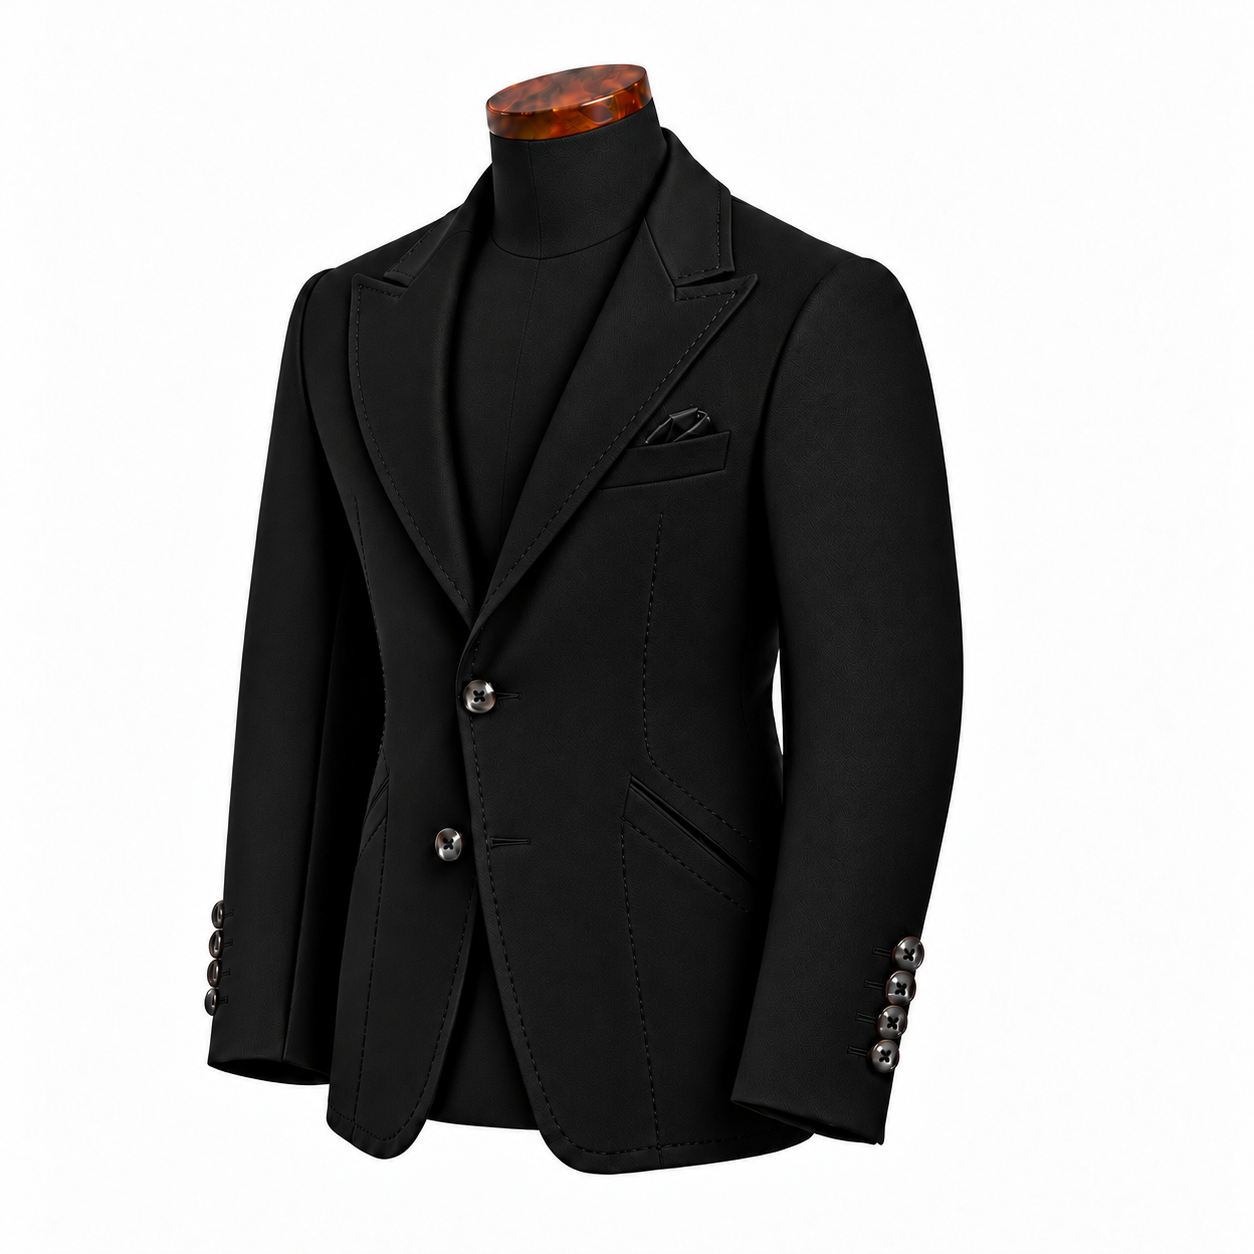
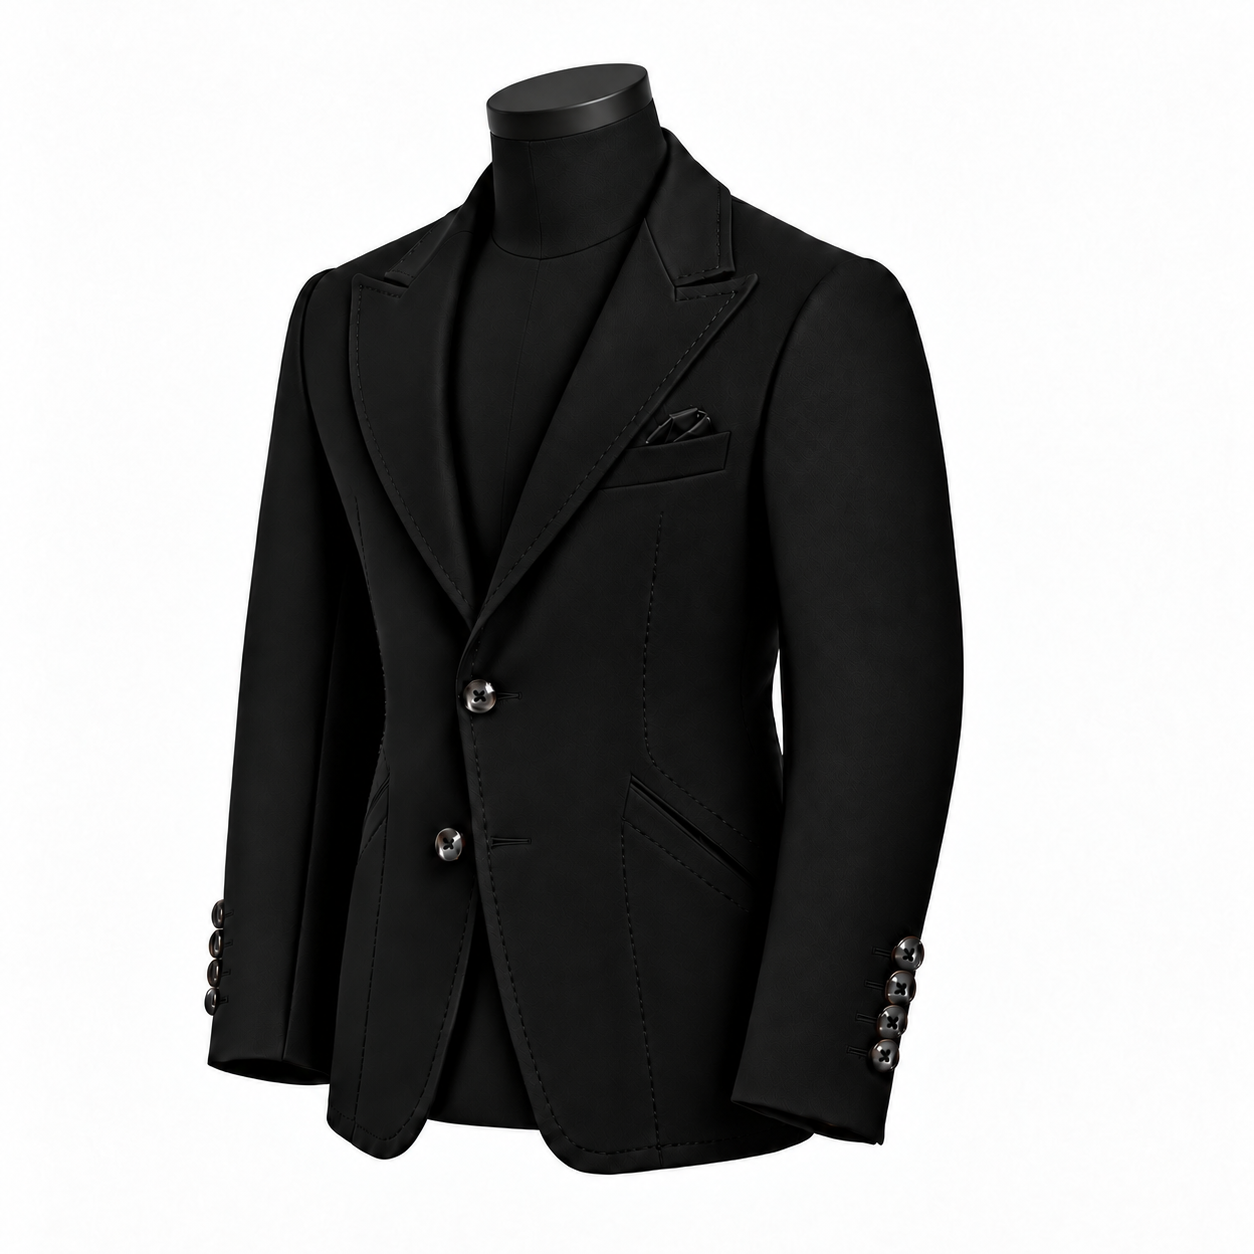
cambios web

Changed region(s): [[0.3732, 0.0311, 0.5287, 0.1244]]

diff --git a/app.js b/app.js
@@ -12,7 +12,7 @@ camel:{images:[['camel-front','front'],['camel-back','back']],en:{description:'W
 Object.assign(translations.en,{"safariName": "The Safari Jacket", "safariType": "Four flap pockets \u00b7 Warm beige", "charcoalName": "The Charcoal Safari", "charcoalType": "Safari tailoring \u00b7 Charcoal", "safariBlackName": "The Black Safari", "safariBlackType": "Four flap pockets \u00b7 Black", "ochreName": "The Ochre Jacket", "ochreType": "Single-breasted \u00b7 Ochre", "brownName": "The Brown Jacket", "brownType": "Leather accents \u00b7 Deep brown", "sandName": "The Sand Jacket", "sandType": "Patterned tailoring \u00b7 Sand", "pocket": "Pocket detail", "button": "Button and stitching", "safariEyebrow": "THE SAFARI EDIT", "safariTitle": "A spirit of exploration.", "safariStory": "Inspired by the practical elegance of safari clothing, reinterpreted through the Maison\u2019s eye for proportion, texture and detail. Four pockets, a defined silhouette and thoughtful finishing give the jacket its contemporary character. Made in Peru.", "safariExplore": "Explore the Safari Jacket", "fabricsTitle": "The cloth, up close.", "fabricsText": "The actual fabric samples behind the collection. Explore their texture and natural colour variation.", "enlarge": "Enlarge photograph", "zoomIn": "Zoom in", "zoomOut": "Fit photograph", "closePhoto": "Close photograph", "collectionIntro": "Defined shoulders. Considered proportions. Distinctive finishing. Explore the Maison\u2019s expressions of quiet confidence.", "fourPieces": "THE SIGNATURE COLLECTION"});
 Object.assign(translations.es,{"safariName": "La chaqueta Safari", "safariType": "Cuatro bolsillos con tapa \u00b7 Beige c\u00e1lido", "charcoalName": "La Safari carb\u00f3n", "charcoalType": "Sastrer\u00eda safari \u00b7 Carb\u00f3n", "safariBlackName": "La Safari negra", "safariBlackType": "Cuatro bolsillos con tapa \u00b7 Negro", "ochreName": "La chaqueta ocre", "ochreType": "Cierre sencillo \u00b7 Ocre", "brownName": "La chaqueta marr\u00f3n", "brownType": "Detalles de cuero \u00b7 Marr\u00f3n profundo", "sandName": "La chaqueta arena", "sandType": "Sastrer\u00eda con dibujo \u00b7 Arena", "pocket": "Detalle del bolsillo", "button": "Bot\u00f3n y costura", "safariEyebrow": "LA EDICI\u00d3N SAFARI", "safariTitle": "Esp\u00edritu de exploraci\u00f3n.", "safariStory": "Inspirada en la elegancia pr\u00e1ctica de la vestimenta safari, reinterpretada con la atenci\u00f3n de la Maison a las proporciones, la textura y los detalles. Cuatro bolsillos, una silueta definida y acabados cuidados le dan un car\u00e1cter contempor\u00e1neo. Hecha en Per\u00fa.", "safariExplore": "Explorar la chaqueta Safari", "fabricsTitle": "La tela, de cerca.", "fabricsText": "Las muestras reales de las telas de la colecci\u00f3n. Explora su textura y sus variaciones naturales de color.", "enlarge": "Ampliar fotograf\u00eda", "zoomIn": "Acercar", "zoomOut": "Ajustar fotograf\u00eda", "closePhoto": "Cerrar fotograf\u00eda", "collectionIntro": "Hombros definidos. Proporciones cuidadas. Acabados distintivos. Explora las expresiones de confianza serena de la Maison.", "fourPieces": "LA COLECCI\u00d3N DE LA MAISON"});
 Object.assign(products,{"safari": {"images": [["safari-front", "front"], ["safari-back", "back"], ["safari-side", "side"], ["safari-lapel", "lapel"], ["safari-pocket", "pocket"], ["safari-cuff", "cuff"]], "en": {"description": "Safari-inspired tailoring with four flap pockets, a softly structured collar and an adjustable waist belt. A considered balance of utility and contemporary elegance, made in Peru.", "details": ["Four front flap pockets", "Textured cloth, full waist belt and refined stitching", "Warm beige"]}, "es": {"description": "Sastrer\u00eda de inspiraci\u00f3n safari con cuatro bolsillos con tapa, cuello de estructura suave y cintur\u00f3n de ajuste en la espalda. Un equilibrio entre funcionalidad y elegancia contempor\u00e1nea, hecho en Per\u00fa.", "details": ["Cuatro bolsillos delanteros con tapa", "Tela con textura, cintur\u00f3n trasero y pespuntes cuidados", "Beige c\u00e1lido"]}}, "charcoal": {"images": [["charcoal0", "front"], ["charcoal1", "back"]], "en": {"description": "Charcoal texture and safari-inspired pockets meet a defined tailored silhouette. A back belt adds shape and a distinctive finishing detail.", "details": ["Four flap pockets", "Textured fabric and back belt", "Charcoal"]}, "es": {"description": "Textura color carb\u00f3n y bolsillos de inspiraci\u00f3n safari en una silueta de sastrer\u00eda definida. El cintur\u00f3n trasero aporta forma y un acabado distintivo.", "details": ["Cuatro bolsillos con tapa", "Tela con textura y cintur\u00f3n trasero", "Carb\u00f3n"]}}, "safariBlack": {"images": [["safariBlack0", "front"], ["safariBlack1", "back"], ["safariBlack2", "button"]], "en": {"description": "A clean black safari silhouette with four flap pockets. Explore the close views to appreciate the cloth, button stitching and finishing.", "details": ["Four flap pockets", "Visible button stitching and fabric texture", "Black"]}, "es": {"description": "Una silueta safari negra de l\u00edneas limpias y cuatro bolsillos con tapa. Explora los acercamientos para apreciar la tela, las costuras de los botones y los acabados.", "details": ["Cuatro bolsillos con tapa", "Costura de botones y textura visibles", "Negro"]}}, "ochre": {"images": [["ochre0", "front"], ["ochre1", "back"], ["ochre2", "cuff"], ["ochre3", "button"]], "en": {"description": "A warm ochre jacket with a two-button front, clean lapels and flap pockets. Dark buttons lend a quiet contrast.", "details": ["Two-button front", "Clean lapels and flap pockets", "Ochre"]}, "es": {"description": "Una chaqueta ocre c\u00e1lida con dos botones frontales, solapas limpias y bolsillos con tapa. Los botones oscuros aportan un contraste discreto.", "details": ["Dos botones frontales", "Solapas limpias y bolsillos con tapa", "Ocre"]}}, "brown": {"images": [["brown0", "front"], ["brown1", "back"], ["brown2", "cuff"]], "en": {"description": "Deep brown patterned cloth with leather accents at the collar and pockets. A tailored expression of warmth and character.", "details": ["Two-button front", "Patterned texture and leather accents", "Deep brown"]}, "es": {"description": "Tela marr\u00f3n profunda con dibujo y detalles de cuero en cuello y bolsillos. Una expresi\u00f3n de calidez y car\u00e1cter a trav\u00e9s de la sastrer\u00eda.", "details": ["Dos botones frontales", "Textura con dibujo y detalles de cuero", "Marr\u00f3n profundo"]}}, "sand": {"images": [["sand0", "front"], ["sand1", "back"], ["sand2", "cuff"]], "en": {"description": "Sand-toned patterned cloth and brown pocket accents give this jacket its relaxed, distinctive presence.", "details": ["Two-button front", "Patterned cloth and brown pocket accents", "Sand"]}, "es": {"description": "Tela con dibujo en tono arena y detalles marrones en los bolsillos que aportan una presencia serena y distintiva.", "details": ["Dos botones frontales", "Tela con dibujo y detalles marrones en bolsillos", "Arena"]}}});
-const regions={"safari-front": {"src": "/assets/review-v7-safari-front.webp", "x": 0, "y": 0, "w": 1, "h": 1, "ratio": 1.0}, "safari-back": {"src": "/assets/natural-v8-safari-back.webp", "x": 0, "y": 0, "w": 1, "h": 1, "ratio": 1.0}, "safari-side": {"src": "/assets/detail-fix-review-v7-safari-side.webp", "x": 0, "y": 0, "w": 1, "h": 1, "ratio": 1.0}, "safari-lapel": {"src": "/assets/detail-fix-review-v4-safari-lapel.webp", "x": 0, "y": 0, "w": 1, "h": 1, "ratio": 1.0}, "safari-pocket": {"src": "/assets/hd-flat-safari-pocket.webp", "x": 0, "y": 0, "w": 1, "h": 1, "ratio": 1.0}, "safari-cuff": {"src": "/assets/review-v4-safari-cuff.webp", "x": 0, "y": 0, "w": 1, "h": 1, "ratio": 1.0}, "safari-model": {"src": "/assets/detail-safari-model.png", "x": 0, "y": 0, "w": 1, "h": 1, "ratio": 0.9882352941176471}, "charcoal0": {"src": "/assets/tailor-v3-charcoal0.webp", "x": 0, "y": 0, "w": 1, "h": 1, "ratio": 1.0}, "charcoal1": {"src": "/assets/detail-fix-hd-flat-charcoal1.webp", "x": 0, "y": 0, "w": 1, "h": 1, "ratio": 1.0}, "safariBlack0": {"src": "/assets/hd-flat-safariBlack0.webp", "x": 0, "y": 0, "w": 1, "h": 1, "ratio": 0.9787066246056783}, "safariBlack1": {"src": "/assets/hd-flat-safariBlack1.webp", "x": 0, "y": 0, "w": 1, "h": 1, "ratio": 0.9787066246056783}, "safariBlack2": {"src": "/assets/hd-flat-safariBlack2.webp", "x": 0, "y": 0, "w": 1, "h": 1, "ratio": 1.0217566478646254}, "ochre0": {"src": "/assets/review-v4-ochre0.webp", "x": 0, "y": 0, "w": 1, "h": 1, "ratio": 1.0}, "ochre1": {"src": "/assets/detail-fix-review-v4-ochre1.webp", "x": 0, "y": 0, "w": 1, "h": 1, "ratio": 1.0}, "ochre2": {"src": "/assets/tailor-v3-ochre2.webp", "x": 0, "y": 0, "w": 1, "h": 1, "ratio": 1.0}, "ochre3": {"src": "/assets/tailor-v3-ochre3.webp", "x": 0, "y": 0, "w": 1, "h": 1, "ratio": 1.0}, "brown0": {"src": "/assets/hd-flat-brown0.webp", "x": 0, "y": 0, "w": 1, "h": 1, "ratio": 1.0}, "brown1": {"src": "/assets/hd-flat-brown1.webp", "x": 0, "y": 0, "w": 1, "h": 1, "ratio": 1.0}, "brown2": {"src": "/assets/hd-flat-brown2.webp", "x": 0, "y": 0, "w": 1, "h": 1, "ratio": 1.0}, "sand0": {"src": "/assets/natural-v11-sand0.webp", "x": 0, "y": 0, "w": 1, "h": 1, "ratio": 0.9472459270752521}, "sand1": {"src": "/assets/natural-v8-sand1.webp", "x": 0, "y": 0, "w": 1, "h": 1, "ratio": 1.0}, "sand2": {"src": "/assets/tailor-v3-sand2.webp", "x": 0, "y": 0, "w": 1, "h": 1, "ratio": 1.053191489361702}, "sand-side": {"src": "/assets/natural-v8-sand-side.webp", "x": 0, "y": 0, "w": 1, "h": 1, "ratio": 1.0}, "sand-lapel": {"src": "/assets/review-v4-sand-lapel.webp", "x": 0, "y": 0, "w": 1, "h": 1, "ratio": 1.0}, "sand-pocket": {"src": "/assets/review-v4-sand-pocket.webp", "x": 0, "y": 0, "w": 1, "h": 1, "ratio": 1.053191489361702}, "black-front": {"src": "/assets/natural-v22-black-front.webp", "x": 0, "y": 0, "w": 1, "h": 1, "ratio": 1.0}, "black-side": {"src": "/assets/natural-v22-black-side.webp", "x": 0, "y": 0, "w": 1, "h": 1, "ratio": 1.0}, "black-back": {"src": "/assets/natural-v21-black-back.webp", "x": 0, "y": 0, "w": 1, "h": 1, "ratio": 1.0}, "blue-front": {"src": "/assets/natural-v11-blue-front.webp", "x": 0, "y": 0, "w": 1, "h": 1, "ratio": 1.0}, "blue-back": {"src": "/assets/hd-flat-blue-back.webp", "x": 0, "y": 0, "w": 1, "h": 1, "ratio": 1.0}, "midnight-front": {"src": "/assets/natural-v17-midnight-front.webp", "x": 0, "y": 0, "w": 1, "h": 1, "ratio": 0.8540899042004422}, "midnight-back": {"src": "/assets/natural-v17-midnight-back.webp", "x": 0, "y": 0, "w": 1, "h": 1, "ratio": 0.8540899042004422}, "midnight-cuff": {"src": "/assets/hd-flat-midnight-cuff.webp", "x": 0, "y": 0, "w": 1, "h": 1, "ratio": 1.2085889570552146}, "midnight-lining": {"src": "/assets/natural-v17-midnight-lining.webp", "x": 0, "y": 0, "w": 1, "h": 1, "ratio": 1.2057793345008756}, "blue-lapel": {"src": "/assets/hd-flat-blue-lapel.webp", "x": 0, "y": 0, "w": 1, "h": 1, "ratio": 1.0}, "blue-cuff": {"src": "/assets/hd-flat-blue-cuff.webp", "x": 0, "y": 0, "w": 1, "h": 1, "ratio": 1.0}, "camel-front": {"src": "/assets/natural-v16-camel-front.webp", "x": 0, "y": 0, "w": 1, "h": 1, "ratio": 1.0}, "camel-back": {"src": "/assets/natural-v16-camel-back.webp", "x": 0, "y": 0, "w": 1, "h": 1, "ratio": 1.0}, "black-threequarter": {"src": "/assets/natural-v22-black-threequarter.webp", "x": 0, "y": 0, "w": 1, "h": 1, "ratio": 1.0}};
+const regions={"safari-front": {"src": "/assets/review-v7-safari-front.webp", "x": 0, "y": 0, "w": 1, "h": 1, "ratio": 1.0}, "safari-back": {"src": "/assets/natural-v8-safari-back.webp", "x": 0, "y": 0, "w": 1, "h": 1, "ratio": 1.0}, "safari-side": {"src": "/assets/detail-fix-review-v7-safari-side.webp", "x": 0, "y": 0, "w": 1, "h": 1, "ratio": 1.0}, "safari-lapel": {"src": "/assets/detail-fix-review-v4-safari-lapel.webp", "x": 0, "y": 0, "w": 1, "h": 1, "ratio": 1.0}, "safari-pocket": {"src": "/assets/hd-flat-safari-pocket.webp", "x": 0, "y": 0, "w": 1, "h": 1, "ratio": 1.0}, "safari-cuff": {"src": "/assets/review-v4-safari-cuff.webp", "x": 0, "y": 0, "w": 1, "h": 1, "ratio": 1.0}, "safari-model": {"src": "/assets/detail-safari-model.png", "x": 0, "y": 0, "w": 1, "h": 1, "ratio": 0.9882352941176471}, "charcoal0": {"src": "/assets/tailor-v3-charcoal0.webp", "x": 0, "y": 0, "w": 1, "h": 1, "ratio": 1.0}, "charcoal1": {"src": "/assets/detail-fix-hd-flat-charcoal1.webp", "x": 0, "y": 0, "w": 1, "h": 1, "ratio": 1.0}, "safariBlack0": {"src": "/assets/hd-flat-safariBlack0.webp", "x": 0, "y": 0, "w": 1, "h": 1, "ratio": 0.9787066246056783}, "safariBlack1": {"src": "/assets/hd-flat-safariBlack1.webp", "x": 0, "y": 0, "w": 1, "h": 1, "ratio": 0.9787066246056783}, "safariBlack2": {"src": "/assets/hd-flat-safariBlack2.webp", "x": 0, "y": 0, "w": 1, "h": 1, "ratio": 1.0217566478646254}, "ochre0": {"src": "/assets/review-v4-ochre0.webp", "x": 0, "y": 0, "w": 1, "h": 1, "ratio": 1.0}, "ochre1": {"src": "/assets/detail-fix-review-v4-ochre1.webp", "x": 0, "y": 0, "w": 1, "h": 1, "ratio": 1.0}, "ochre2": {"src": "/assets/tailor-v3-ochre2.webp", "x": 0, "y": 0, "w": 1, "h": 1, "ratio": 1.0}, "ochre3": {"src": "/assets/tailor-v3-ochre3.webp", "x": 0, "y": 0, "w": 1, "h": 1, "ratio": 1.0}, "brown0": {"src": "/assets/hd-flat-brown0.webp", "x": 0, "y": 0, "w": 1, "h": 1, "ratio": 1.0}, "brown1": {"src": "/assets/hd-flat-brown1.webp", "x": 0, "y": 0, "w": 1, "h": 1, "ratio": 1.0}, "brown2": {"src": "/assets/hd-flat-brown2.webp", "x": 0, "y": 0, "w": 1, "h": 1, "ratio": 1.0}, "sand0": {"src": "/assets/natural-v11-sand0.webp", "x": 0, "y": 0, "w": 1, "h": 1, "ratio": 0.9472459270752521}, "sand1": {"src": "/assets/natural-v8-sand1.webp", "x": 0, "y": 0, "w": 1, "h": 1, "ratio": 1.0}, "sand2": {"src": "/assets/tailor-v3-sand2.webp", "x": 0, "y": 0, "w": 1, "h": 1, "ratio": 1.053191489361702}, "sand-side": {"src": "/assets/natural-v8-sand-side.webp", "x": 0, "y": 0, "w": 1, "h": 1, "ratio": 1.0}, "sand-lapel": {"src": "/assets/review-v4-sand-lapel.webp", "x": 0, "y": 0, "w": 1, "h": 1, "ratio": 1.0}, "sand-pocket": {"src": "/assets/review-v4-sand-pocket.webp", "x": 0, "y": 0, "w": 1, "h": 1, "ratio": 1.053191489361702}, "black-front": {"src": "/assets/black-neck-v33-front.webp", "x": 0, "y": 0, "w": 1, "h": 1, "ratio": 1.0}, "black-side": {"src": "/assets/black-neck-v33-side.webp", "x": 0, "y": 0, "w": 1, "h": 1, "ratio": 1.0}, "black-back": {"src": "/assets/black-neck-v33-back.webp", "x": 0, "y": 0, "w": 1, "h": 1, "ratio": 1.0}, "blue-front": {"src": "/assets/natural-v11-blue-front.webp", "x": 0, "y": 0, "w": 1, "h": 1, "ratio": 1.0}, "blue-back": {"src": "/assets/hd-flat-blue-back.webp", "x": 0, "y": 0, "w": 1, "h": 1, "ratio": 1.0}, "midnight-front": {"src": "/assets/natural-v17-midnight-front.webp", "x": 0, "y": 0, "w": 1, "h": 1, "ratio": 0.8540899042004422}, "midnight-back": {"src": "/assets/natural-v17-midnight-back.webp", "x": 0, "y": 0, "w": 1, "h": 1, "ratio": 0.8540899042004422}, "midnight-cuff": {"src": "/assets/hd-flat-midnight-cuff.webp", "x": 0, "y": 0, "w": 1, "h": 1, "ratio": 1.2085889570552146}, "midnight-lining": {"src": "/assets/natural-v17-midnight-lining.webp", "x": 0, "y": 0, "w": 1, "h": 1, "ratio": 1.2057793345008756}, "blue-lapel": {"src": "/assets/hd-flat-blue-lapel.webp", "x": 0, "y": 0, "w": 1, "h": 1, "ratio": 1.0}, "blue-cuff": {"src": "/assets/hd-flat-blue-cuff.webp", "x": 0, "y": 0, "w": 1, "h": 1, "ratio": 1.0}, "camel-front": {"src": "/assets/natural-v16-camel-front.webp", "x": 0, "y": 0, "w": 1, "h": 1, "ratio": 1.0}, "camel-back": {"src": "/assets/natural-v16-camel-back.webp", "x": 0, "y": 0, "w": 1, "h": 1, "ratio": 1.0}, "black-threequarter": {"src": "/assets/black-neck-v33-threequarter.webp", "x": 0, "y": 0, "w": 1, "h": 1, "ratio": 1.0}};
 Object.assign(regions,{"fabric1": {"src": "/assets/fabric1.jpeg", "x": 0.3125, "y": 0.2685546875, "w": 0.6076388888888888, "h": 0.341796875, "ratio": 1}, "fabric2": {"src": "/assets/fabric2.jpeg", "x": 0.2517361111111111, "y": 0.4541015625, "w": 0.6597222222222222, "h": 0.37109375, "ratio": 1}, "fabric3": {"src": "/assets/fabric3.jpeg", "x": 0.08680555555555555, "y": 0.400390625, "w": 0.6423611111111112, "h": 0.361328125, "ratio": 1}});
 products.sand.images=[['sand0','front'],['sand1','back'],['sand-side','side'],['sand-lapel','lapel'],['sand-pocket','finishing'],['sand2','cuff']];
 

diff --git a/style.css b/style.css
@@ -108,3 +108,49 @@
 .hero-image{min-height:0;height:auto;aspect-ratio:1/1;align-self:center;background:#99938b}
 .hero-image>img{display:block;object-fit:contain;object-position:center;transform:scale(1)}
 .hero-image:hover>img{transform:scale(1.015)}
+
+/* Compact phone layout: retain readable type and complete garment photographs. */
+@media(max-width:760px){
+ html{scroll-padding-top:20px;-webkit-text-size-adjust:100%;text-size-adjust:100%}
+ .header{height:88px;padding:0 5%}
+ .brand.logo-window{width:132px;height:80px}
+ .header-actions{gap:12px}.languages{gap:4px}.menu-button{width:32px;min-height:44px}
+ .mobile-nav{top:88px}
+ .hero-copy{padding:28px 6% 24px}
+ .hero h1{font-size:clamp(42px,11.5vw,62px);line-height:1.02;margin:18px 0}
+ .hero-description{font-size:13px;line-height:1.7;max-width:35em}
+ .hero .eyebrow{font-size:8px;letter-spacing:.1em;gap:9px}
+ .hero .dash{width:18px;flex:none}
+ .button-ivory{margin-top:20px;padding:14px 18px;min-height:48px}
+ .hero-bottom{padding-top:24px;font-size:6px;gap:8px;letter-spacing:.08em}
+ .hero-image{width:100%;min-width:0;min-height:0;height:auto;aspect-ratio:1}
+ .image-caption{padding:16px 6%}.image-caption>span:first-child{font-size:20px;gap:5px}
+ .circle-arrow{width:34px;height:34px;font-size:18px}
+ .signature-strip{padding:20px 6%}.signature-strip p{font-size:18px;line-height:1.45}
+ .signature-strip a{margin-top:12px}
+ .section-pad{padding:40px 6%}
+ .section-heading{margin-bottom:22px}.section-heading h2,.safari-copy h2,.story h2,.craft h2{font-size:clamp(30px,8.4vw,40px);line-height:1.15}
+ .section-intro{font-size:13px;line-height:1.7;margin-top:16px}
+ .collection-tools{padding:14px 0;gap:10px}.filters{gap:24px;flex-wrap:wrap}.filters button{min-height:40px;font-size:11px}
+ .products{gap:24px 12px}.product{min-width:0}.product-image{padding:8px}
+ .product h3{font-size:17px;overflow-wrap:break-word}.product-info{padding-top:12px;gap:6px}.product-info p{font-size:10px;line-height:1.5}
+ .safari-edit{gap:24px}.safari-copy>p:not(.eyebrow){font-size:13px;line-height:1.75}
+ .fabric-grid{grid-template-columns:repeat(2,minmax(0,1fr));gap:20px 12px}
+ .fabric-grid img{height:auto}.fabric-grid button{min-width:0;font-size:11px}
+ .cloth-heading{margin:32px 0 20px}.cloth-heading h3{font-size:26px}.cloth-chips{gap:16px 12px}.cloth-chip{width:calc((100% - 24px)/3)}.cloth-chip img{width:100%}
+ .craft-image{height:auto;min-height:0;aspect-ratio:1}.craft-image img{width:100%;height:100%;object-fit:contain}
+ .craft-copy{padding:36px 6%}.craft h2{margin:16px 0 22px}.craft-intro{font-size:13px;line-height:1.75}
+ .craft-lines{margin-top:24px}.craft-lines>div{gap:16px;padding:16px 0}
+ .maison-film h2{font-size:30px;margin:14px 0 22px}.film-credit{font-size:10px}
+ .story{gap:28px;padding:40px 6%}.story-visual{max-width:100%;width:100%}.story-visual img{height:auto;max-height:350px;object-fit:contain}
+ .story h2{margin:16px 0 20px}.story-lead{font-size:19px;line-height:1.5}.story-copy>p:not(.eyebrow):not(.story-lead):not(.story-signature){font-size:13px;line-height:1.75}
+ .closing{padding:40px 6% 32px}.closing-quote{font-size:29px}.closing .closing-logo{width:220px}
+ footer{padding:22px 6%;gap:14px;line-height:1.6}
+ .product-dialog{width:94vw;max-height:94dvh;margin:auto}.dialog-layout{min-width:0}
+ .dialog-gallery{padding:14px}.dialog-image-wrap{padding:12px;min-width:0}.dialog-copy{padding:24px 20px 30px}
+ .dialog-copy h2{font-size:32px;margin:16px 0}.dialog-copy .eyebrow{line-height:1.6;overflow-wrap:anywhere}
+ .dialog-close{position:sticky;float:right;top:10px;right:10px;margin:10px 10px -46px 0;width:40px;height:40px}
+ .thumbnails{gap:7px}.thumbnails button{width:48px;height:56px}
+ .photo-controls{gap:8px;align-items:center;flex-wrap:wrap}.photo-controls button{font-size:11px;padding:8px}
+ .photo-scroll{padding:10px}.size-box{padding:14px}.selected-size-table{font-size:12px}
+}
